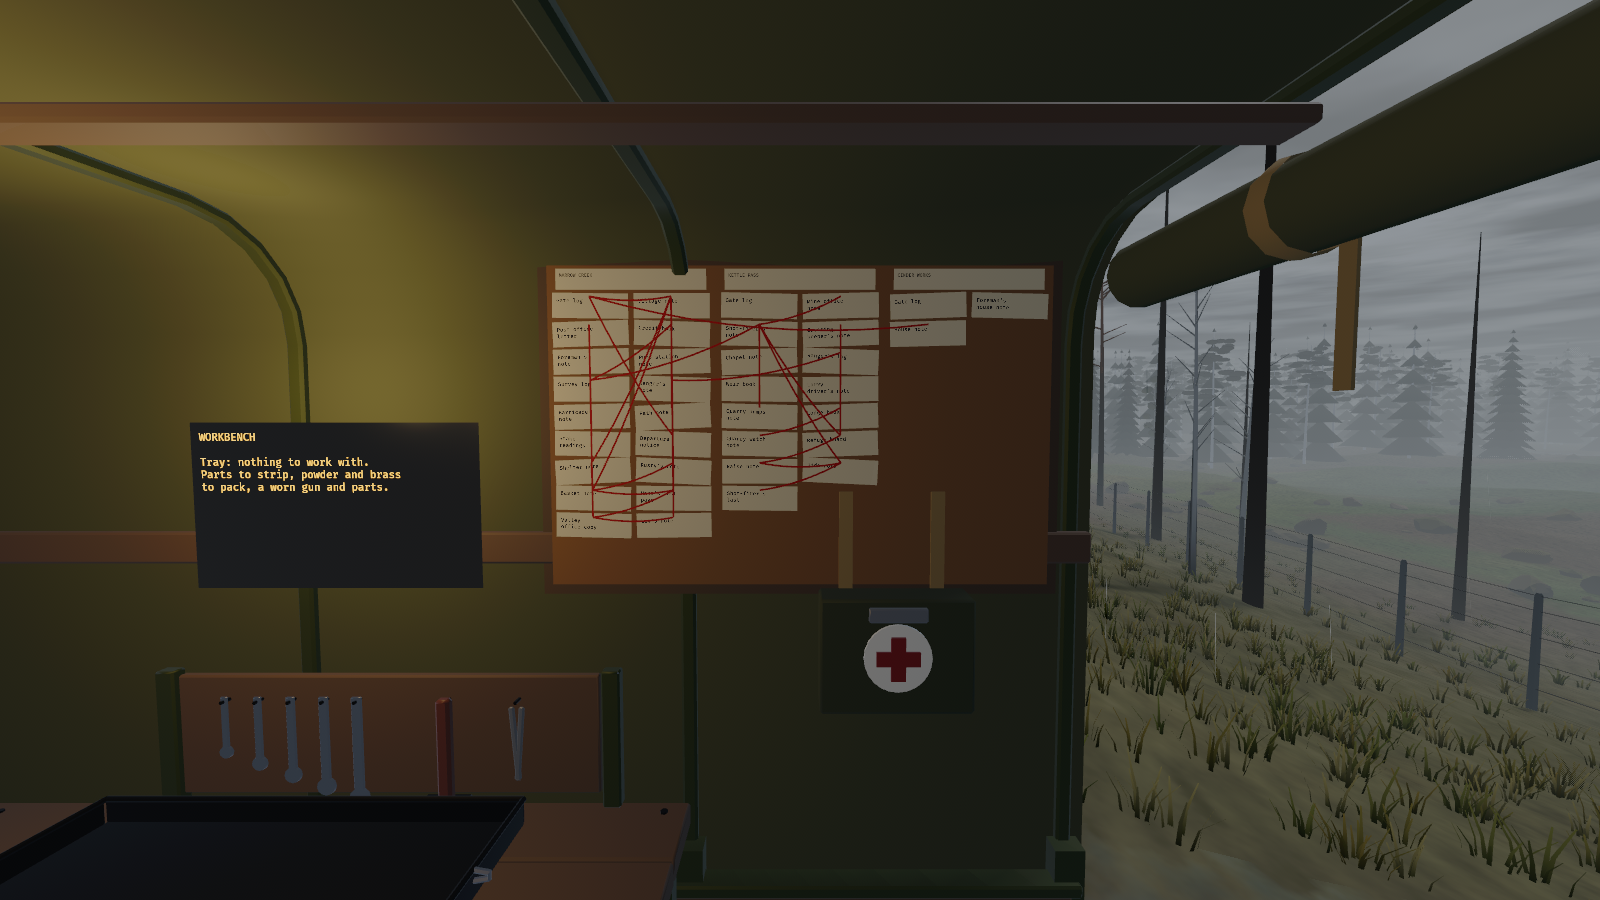
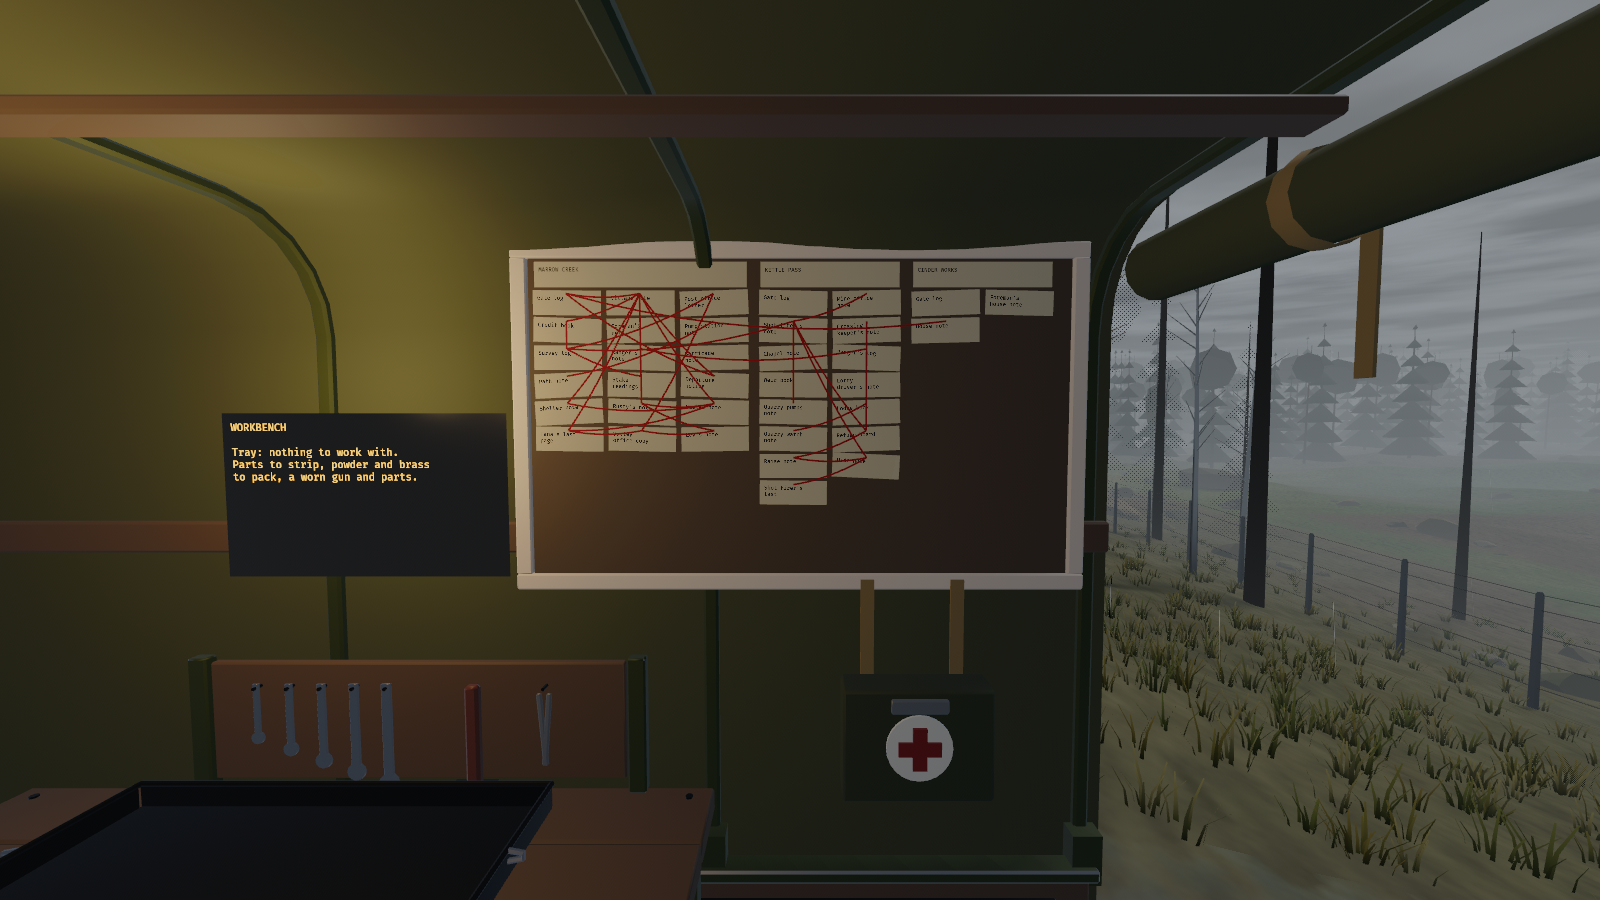
Board, hatch panel and terminals swap in Kit models' models
cork_board, cab_hatch_panel (shut in the truck model's runners) and
terminal (every map and scene terminal) dress in by name, the boxes
staying until the models land (claude/polish-kit-models). Shots taken
with those models: the board's three Marrow columns, the hatch in its
runners over the modelled ledge.

Claude-Session: https://claude.ai/code/session_018Vt7kU7WwqQXvcxJt7iTS4

diff --git a/src/raid/lev.rs b/src/raid/lev.rs
@@ -341,6 +341,11 @@ impl Plugin for LevVisualsPlugin {
     }
 }
 
+use crate::render::world_props::{Blockout, SwapIn};
+
+/// The panel's depth, truck space, in the runners (`art/vehicles/truck.py`).
+const PANEL_Z: f32 = -1.8255;
+
 /// The panel slides sideways to open.
 #[derive(Component)]
 struct HatchPanel;
@@ -362,13 +367,22 @@ fn dress_hatch(
     for e in &hatches {
         // The panel over the opening (the hole, its boot and the cab
         // behind are the truck model's).
-        commands.spawn((
-            HatchPanel,
-            Mesh3d(meshes.add(Cuboid::new(HATCH.x + 0.02, HATCH.y + 0.02, 0.015))),
-            MeshMaterial3d(mat(Color::srgb(0.27, 0.30, 0.22), 0.7)),
-            Transform::from_xyz(0.0, 0.0, 0.01),
-            ChildOf(e),
-        ));
+        // Shut, the panel sits in the truck model's runners, just behind
+        // the opening's face. Boxes until its model (`cab_hatch_panel`).
+        commands
+            .spawn((
+                HatchPanel,
+                SwapIn::one("cab_hatch_panel"),
+                Transform::from_xyz(0.0, 0.0, PANEL_Z - HATCH_AT.z),
+                Visibility::default(),
+                ChildOf(e),
+            ))
+            .with_child((
+                Mesh3d(meshes.add(Cuboid::new(HATCH.x + 0.02, HATCH.y + 0.02, 0.015))),
+                MeshMaterial3d(mat(Color::srgb(0.27, 0.30, 0.22), 0.7)),
+                Transform::IDENTITY,
+                Blockout,
+            ));
     }
     for e in &hands {
         // A bare, weathered hand, palm up, fingers curled round what it

diff --git a/src/world/notes.rs b/src/world/notes.rs
@@ -225,17 +225,23 @@ fn spawn_notes(
                         Visibility::default(),
                     ))
                     .id();
-                // The monitor: a deep case, a bezel, the glass.
+                // The monitor: a deep case, a bezel, the glass. Boxes until
+                // its model (`terminal`) is in.
+                commands
+                    .entity(root)
+                    .insert(crate::render::world_props::SwapIn::one("terminal"));
                 commands.spawn((
                     Mesh3d(meshes.add(Cuboid::new(0.44, 0.38, 0.4))),
                     MeshMaterial3d(mat(Mat::Polymer)),
                     Transform::from_xyz(0.0, 0.22, -0.06),
+                    crate::render::world_props::Blockout,
                     ChildOf(root),
                 ));
                 commands.spawn((
                     Mesh3d(meshes.add(Cuboid::new(0.2, 0.03, 0.2))),
                     MeshMaterial3d(mat(Mat::Polymer)),
                     Transform::from_xyz(0.0, 0.015, -0.06),
+                    crate::render::world_props::Blockout,
                     ChildOf(root),
                 ));
                 commands.spawn((
@@ -243,6 +249,7 @@ fn spawn_notes(
                     MeshMaterial3d(mat(Mat::Polymer)),
                     Transform::from_xyz(0.0, 0.015, 0.25)
                         .with_rotation(Quat::from_rotation_x(0.08)),
+                    crate::render::world_props::Blockout,
                     ChildOf(root),
                 ));
                 commands.spawn((

diff --git a/src/raid/board.rs b/src/raid/board.rs
@@ -483,6 +483,8 @@ impl Plugin for BoardVisualsPlugin {
 #[derive(Component)]
 struct StringMesh;
 
+use crate::render::world_props::{Blockout, SwapIn};
+
 fn dress_board(
     mut commands: Commands,
     boards: Query<Entity, Added<CorkBoard>>,
@@ -500,16 +502,20 @@ fn dress_board(
             perceptual_roughness: 0.8,
             ..default()
         });
+        // Boxes until the board's model (`cork_board`) is in.
+        commands.entity(board).insert(SwapIn::one("cork_board"));
         commands.spawn((
             Mesh3d(meshes.add(Cuboid::new(BOARD.x, BOARD.y, 0.02))),
             MeshMaterial3d(cork),
             Transform::from_xyz(0.0, 0.0, 0.0),
+            Blockout,
             ChildOf(board),
         ));
         commands.spawn((
             Mesh3d(meshes.add(Cuboid::new(BOARD.x + 0.05, BOARD.y + 0.05, 0.012))),
             MeshMaterial3d(frame),
             Transform::from_xyz(0.0, 0.0, -0.008),
+            Blockout,
             ChildOf(board),
         ));
     }

diff --git a/src/world/scenes.rs b/src/world/scenes.rs
@@ -594,9 +594,14 @@ fn dress_terminals(
                 Mesh3d(meshes.add(Cuboid::new(size.x, size.y, size.z))),
                 MeshMaterial3d(polymer.clone()),
                 Transform::from_translation(at),
+                crate::render::world_props::Blockout,
                 ChildOf(root),
             ));
         }
+        // Boxes until the terminal's model is in.
+        commands
+            .entity(root)
+            .insert(crate::render::world_props::SwapIn::one("terminal"));
     }
 }
 
